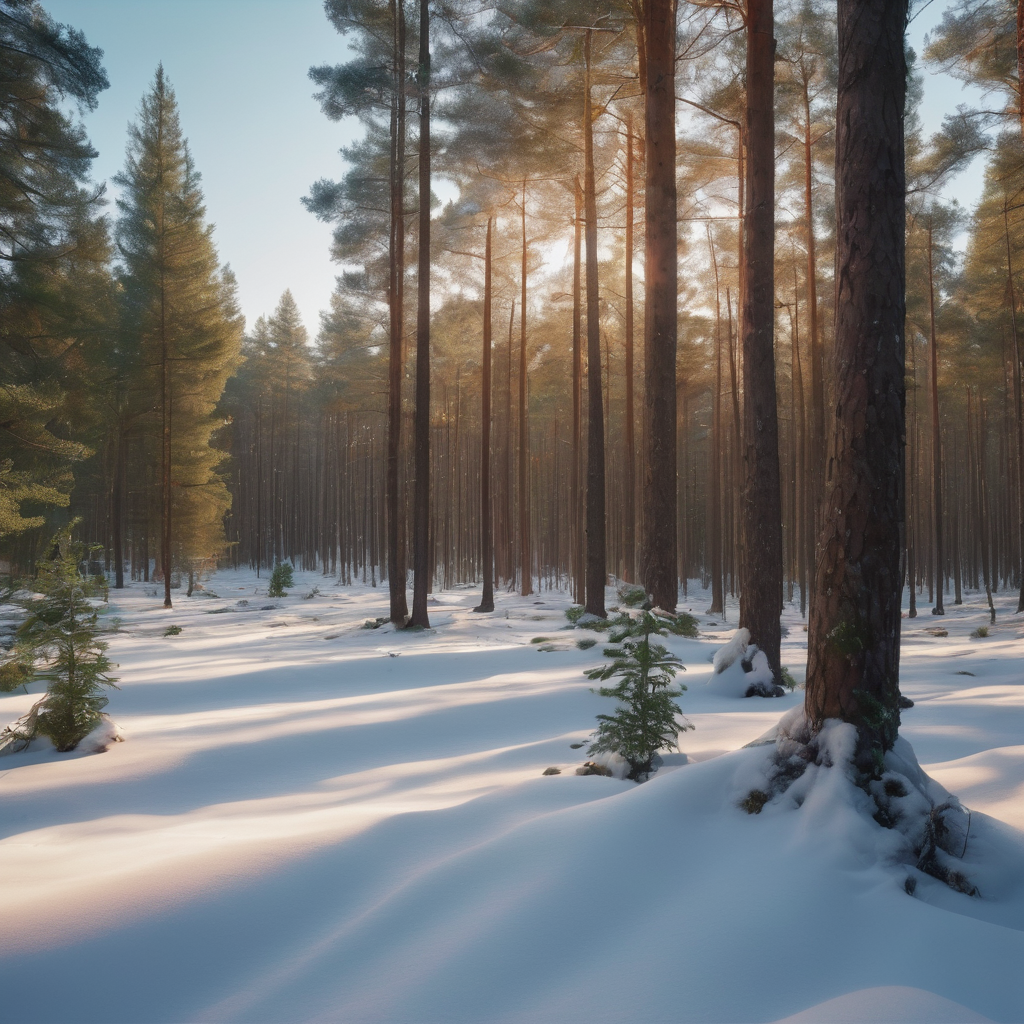
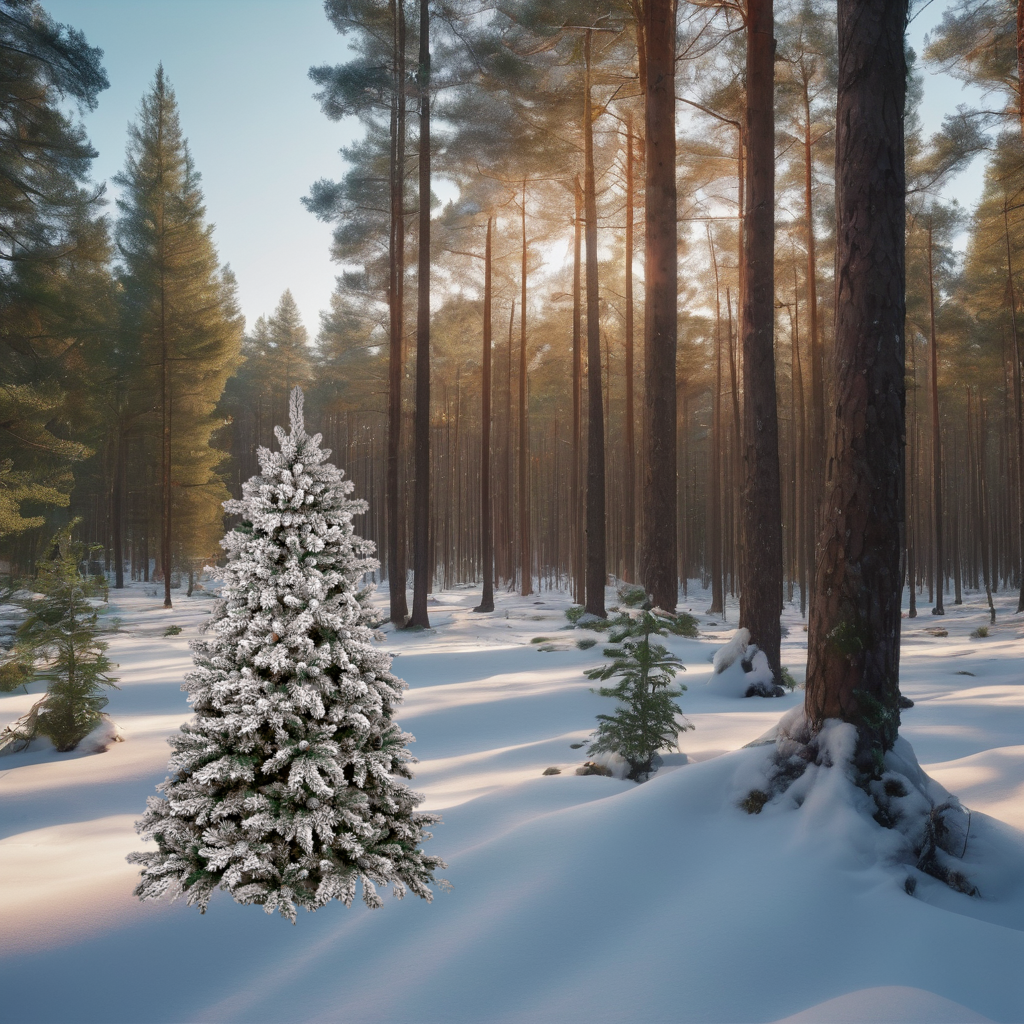
changes

Changed region(s): [[0.125, 0.375, 0.4375, 0.9062]]

diff --git a/scenes.js b/scenes.js
@@ -9,13 +9,25 @@ const scenes = [
   {
     background: "img/forest.png",
     text: "Nu är du i skogen. Kan du hjälpa mig hugga en gran? Klicka på",
-    button1: { text: "Hugga gran", nextSceneIndex: 1 },
-    button2: { text: "Gå in i huset", nextSceneIndex: 2 },
+    button1: { text: "Hugga gran", nextSceneIndex: 2 },
+    button2: { text: "Gå in i huset", nextSceneIndex: 3 },
+  },
+  {
+    background: "img/HugGran.png",
+    text: "Bra jobbat!! Nu är granen huggen, jag tar med mig den till huset, följ med mig! Jag behöver mer hjälp inne i huset.",
+    button1: { text: "Gå till vardagsrummet", nextSceneIndex: 3 },
+    button2: { text: "Gå till köket", nextSceneIndex: 4 },
+  },
+  {
+    background: "img/vardagsrum.png",
+    text: "Nu är vi i vardagsrummet och jag har satt upp granen. Hjälp mig nu med att dekorera granen",
+    button1: { text: "Sätta upp granen" },
+    button2: { text: "Gå till köket", nextSceneIndex: 4 },
   },
   {
     background: "img/house.png",
-    text: "Välkommen in i värmen",
-    button1: { text: "Sätta upp granen" },
-    button2: { text: "Spela spel" },
+    text: "Köket",
+    button1: { text: "Baka" },
+    button2: { text: "Gå till vardagsrummet", nextSceneIndex: 3 },
   },
 ];

diff --git a/main.js b/main.js
@@ -33,8 +33,18 @@ function renderScene() {
     gotoPreviousScene();
   };
 
+  //img-element
+  const imageContainer = document.getElementById("imgContainer");
+
   const image = document.createElement("img");
   image.src = scene.background;
+  image.alt = "scene background";
+  image.classList.add("sceneImg");
+  //imageContainer.append(image);
+
+  document.body.style.backgroundImage = `url('${scene.background}')`;
+  document.body.style.backgroundRepeat = "no-repeat";
+  document.body.style.backgroundSize = "cover";
 }
 
 function goToNextScene(sceneIndex) {
@@ -49,14 +59,16 @@ function gotoPreviousScene() {
   }
 }
 
-let granHuggen = false;
+function huggaGran() {}
 
-function huggaGran() {
-  if (!granHuggen) {
-    let huggChans = Math.random();
-  } else if (huggChans > 0.5) {
-    granHuggen = true;
-    document.getElementById("bakgrund").style.backgroundImage =
-      "url('img/huggen.png')";
-  }
-}
+// let granHuggen = false;
+
+// function huggaGran() {
+//   if (!granHuggen) {
+//     let huggChans = Math.random();
+//   } else if (huggChans > 0.5) {
+//     granHuggen = true;
+//     document.getElementById("bakgrund").style.backgroundImage =
+//       "url('img/huggen.png')";
+//   }
+// }

diff --git a/styles.css b/styles.css
@@ -4,10 +4,6 @@
   box-sizing: border-box;
 }
 
-img {
-  position: relative;
-}
-
 /* Textrutan med knappar */
 .textruta {
   max-width: 550px;
@@ -20,4 +16,7 @@ img {
   border: 2px solid black;
   border-radius: 10px;
   font-family: verdana;
+}
+
+.container {
 }

diff --git a/index.html b/index.html
@@ -16,6 +16,7 @@
         <button id="btn2"></button>
       </div>
     </div>
+    <div id="imgContainer"></div>
     <script src="scenes.js"></script>
     <script src="main.js"></script>
   </body>
